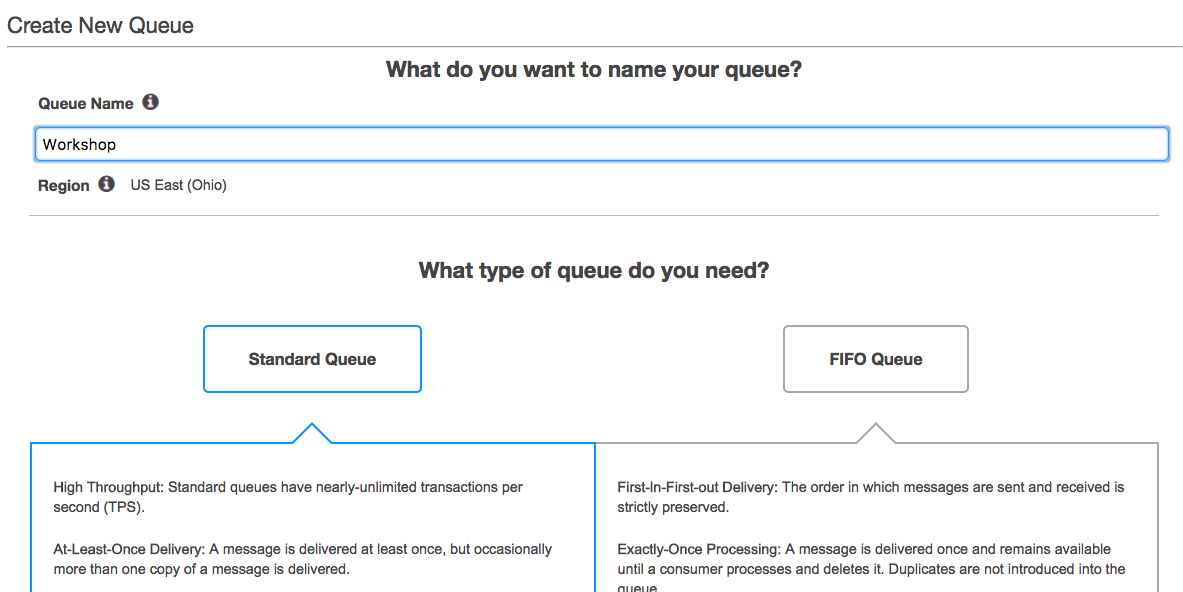
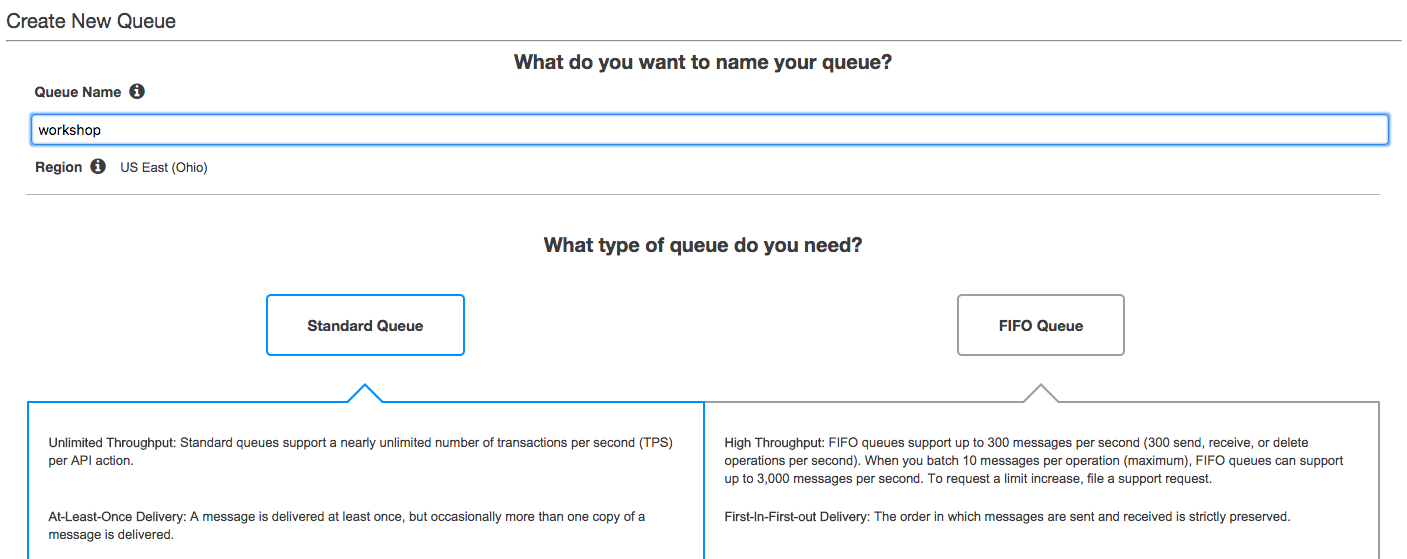
Updated Documentation for updated console

diff --git a/src/worker.py b/src/worker.py
@@ -39,6 +39,7 @@ import numpy as np
 import datetime , time
 from math import sqrt
 from scipy.stats import norm
+import fix_yahoo_finance as yf
 
 
 import argparse
@@ -95,7 +96,7 @@ trading_days = 252 # Number of trading days
 STOCK="AMZN"
 
 '''
-
+yf.pdr_override()
 stock_df = pdr.get_data_yahoo(STOCK,start=datetime.datetime(2006, 10, 1), end=datetime.datetime(2017, 10, 1))
 
 #calculate the compound annual growth rate (CAGR) which 

diff --git a/README.md b/README.md
@@ -95,8 +95,13 @@ The template sets up a VPC, IAM roles, S3 bucket, and an EC2 Instance. The EC2 i
 
 	Region | Launch Template
 	------------ | -------------  
+	**N. Virginia** (us-east-1) | [![Launch Monte Carlo Workshop into Ohio with CloudFormation](images/deploy-to-aws.png)](https://console.aws.amazon.com/cloudformation/home?region=us-east-1#/stacks/new?stackName=spot-montecarlo-stack&templateURL=https://s3-us-west-2.amazonaws.com/reinvent2017-cmp316/monte-carlo-workshop.yaml) 
 	**Ohio** (us-east-2) | [![Launch Monte Carlo Workshop into Ohio with CloudFormation](images/deploy-to-aws.png)](https://console.aws.amazon.com/cloudformation/home?region=us-east-2#/stacks/new?stackName=spot-montecarlo-stack&templateURL=https://s3-us-west-2.amazonaws.com/reinvent2017-cmp316/monte-carlo-workshop.yaml)  
 	**Oregon** (us-west-2) | [![Launch Monte Carlo Workshop into Oregon with CloudFormation](images/deploy-to-aws.png)](https://console.aws.amazon.com/cloudformation/home?region=us-west-2#/stacks/new?stackName=spot-montecarlo-stack&templateURL=https://s3-us-west-2.amazonaws.com/reinvent2017-cmp316/monte-carlo-workshop.yaml)
+	**Dublin** (eu-west-1) | [![Launch Monte Carlo Workshop into Ireland with CloudFormation](images/deploy-to-aws.png)](https://console.aws.amazon.com/cloudformation/home?region=eu-west-1#/stacks/new?stackName=spot-montecarlo-stack&templateURL=https://s3-us-west-2.amazonaws.com/reinvent2017-cmp316/monte-carlo-workshop.yaml)
+	**Tokyo** (ap-northeast-1) | [![Launch Monte Carlo Workshop into Tokyo with CloudFormation](images/deploy-to-aws.png)](https://console.aws.amazon.com/cloudformation/home?region=ap-northeast-1#/stacks/new?stackName=spot-montecarlo-stack&templateURL=https://s3-us-west-2.amazonaws.com/reinvent2017-cmp316/monte-carlo-workshop.yaml) 
+	**Seoul** (ap-northeast-2) | [![Launch Monte Carlo Workshop into Seoul with CloudFormation](images/deploy-to-aws.png)](https://console.aws.amazon.com/cloudformation/home?region=ap-northeast-2#/stacks/new?stackName=spot-montecarlo-stack&templateURL=https://s3-us-west-2.amazonaws.com/reinvent2017-cmp316/monte-carlo-workshop.yaml)
+	**Sydney** (ap-southeast-2) | [![Launch Monte Carlo Workshop into Sydney with CloudFormation](images/deploy-to-aws.png)](https://console.aws.amazon.com/cloudformation/home?region=ap-southeast-2#/stacks/new?stackName=spot-montecarlo-stack&templateURL=https://s3-us-west-2.amazonaws.com/reinvent2017-cmp316/monte-carlo-workshop.yaml)
 
 2. The template will automatically bring you to the CloudFormation Dashboard and start the stack creation process in the specified region. Click **Next** on the page it brings you to. Do not change anything on the first screen.
 
@@ -169,7 +174,7 @@ We will start by creating a managed message queue to store the batch job paramet
 >For regions that don't yet support FIFO queues, the console may look different than shown. Just name the queue and accept the defaults.
 
 
-3. Save the queue **Name** and **URL** for later use.
+3. Save the queue **ARN** and **URL** for later use.
 	
 	![SQS Info](images/sqs_info.png)
 	
@@ -184,12 +189,21 @@ Our EC2 instances run with an Instance Profile that contains an IAM role giving 
 
 	![IAM Role](images/iam_role.png)
 
-5. Under *Actions*, place a comma after the last action (e.g. `"logs:*"`).
-6. Add a new entry `"sqs:*"`which will give permission for all SQS actions. Click **Validate Policy**.
+5. Click on **Add additional permisions**. Click on **Choose a service** and select or type **SQS**.
 
-	![IAM Validate](images/iam_validate.png)
+	![IAM Role](images/iam_role_1.png)
 
-7. If the policy is valid, click **Save**.
+6. Click on **Select actions**. Under *Manual actions*, check the box beside **All SQS actions (sqs:\*)**. 
+
+	![IAM Role](images/iam_role_2.png)
+
+7. You will see a warning that you must choose a **queue resource type**. Click anywhere on the orange warning line. Under Resources, click on **Add ARN**.
+
+8. In the pop-up window, paste the *ARN* that you saved previously. Click **Add**.
+
+	![IAM Role](images/iam_role_3.png)
+	
+9. Click on **Review Policy** and then click **Save changes**.
 
 #### Configure the Web Client
 The CloudFormation template deployed a web server that will serve as the user interface. We need to configure it with our SQS queue
@@ -220,23 +234,24 @@ The CloudFormation template deployed a web server that will serve as the user in
 
 #### Create the Spot Worker Fleet
 1. From the EC2 Console, select **Spot Requests** and click **Request Spot Instances**.
-3. Select **Request and Maintain** to create a fleet of Spot Instances.
-4. For **Target Capacity**, type **2**
-5. Leave the Amazon Linux AMI as the Default.
-6. Each EC2 Instance type and family has it's own independent Spot Market price. Under **Instance Types**, Click **Select** and pick the *c3.xlarge*, *c3.2xlarge*, and *c4.xlarge* to diversify our fleet. Click **Select** again to return to the previous screen.
-7.  For **Allocation Strategy**, pick **Diversified**.
-8. For **Network**, pick the VPC we created for the Spot Monte Carlo Workshop.
-9. Under Availability Zone, check the box next to the first two AZs. The Network Subnet should auto-populate. If the subnet dropdown box says *"No subnets in this zone*, uncheck and select another AZ
-10.  Select **Use automated bidding**
+2. Select **Request and Maintain** to create a fleet of Spot Instances.
+3. For **Total target Capacity**, type **2**
+4. Leave the Amazon Linux AMI as the Default.
+5. Each EC2 Instance type and family has it's own independent Spot Market price. Under **Instance type(s)**, click **Select** and pick a few instance types (e.g. *c3.xlarge*, *c3.2xlarge*, and *c4.xlarge*) to diversify our fleet. Click **Select** again to return to the previous screen.
+6. For **Network**, pick the VPC we created for the Spot Monte Carlo Workshop.
+7. Under **Availability Zone**, check the box next to the first two AZs. The Network Subnet should auto-populate. If the subnet dropdown box says *"No subnets in this zone*, uncheck and select another AZ
+
 	![Spot Request](images/request_spot_configuration.png)
-11. Click **Next**
-12. We will use User Data to bootstrap our work nodes. Copy and paste the [spotlabworker.sh](https://github.com/aws-samples/ec2-spot-montecarlo-workshop/blob/master/templates/spotlabworker.sh) code from the repo We recommend using grabbing the latest code from the repo, but you can review the script below.
+
+8. For **Key pair name**, choose the SSH Key Pair that you specified in the CloudFormation template. 
+9. Under **Security groups** and  **IAM instance profile**, select the name with the prefix *spot-montecarlo workshop*.
+10. We will use User Data to bootstrap our work nodes. Copy and paste the [spotlabworker.sh](https://github.com/aws-samples/ec2-spot-montecarlo-workshop/blob/master/templates/spotlabworker.sh) code from the repo We recommend using grabbing the latest code from the repo, but you can review the script below.
 
 	<pre>
 	#!/bin/bash
 	# Install Dependencies
 	yum -y install git python-numpy python-matplotlib python-scipy
-	pip install pandas-datareader
+	pip install pandas-datareader fix_yahoo_finance
 	pip install scipy 
 	pip install boto3
 	
@@ -257,20 +272,20 @@ The CloudFormation template deployed a web server that will serve as the user in
 	echo 'Starting the worker processor'
 	python /home/ec2-user/spotlabworker/queue_processor.py --region $REGION> stdout.txt 2>&1
 	</pre>  
-12. Under **Tags**, Enter **Name** for *Key*. Enter **WorkerNode** for *Value*.
-13. Under **IAM instance profile**, pull the dropdown and select the profile beginning with the workshop name you configured in the CloudFormation Template.
-13. Select the Security Group named after your Workshop.
-14. We will accept the rest of the defaults, but take a moment at look at the options that you can configure for your Spot Fleet
+11. Under **Instance tags**, click on **Add new tag**. Enter **Name** for *Key*. Enter **WorkerNode** for *Value*.
+
+	![Spot Request](images/spot_config_2.png)
+
+12. We will accept the rest of the defaults, but take a moment at look at the options that you can configure for your Spot Fleet
 	* **Health Checks**
 	* **Interruption behavior**
-	* **Load Balancer registration**
+	* **Load Balancer Configuration**
 	* **EBS Optimized**
-
-	![Spot Request](images/spot_user_data.png)
+	* **Maximum Price**
 	
-15. Click **Review**, review your settings, and then click **Launch**.
-16. Wait until the request is fulfilled, capacity shows the specified number of Spot instances, and the status is Active.
-17. Once the workers come up, they should start processing the SQS messages automatically. Feel free to create some more jobs from the webpage.
+13. Click **Launch**.
+14. Wait until the request is fulfilled, capacity shows the specified number of Spot instances, and the status is Active.
+15. Once the workers come up, they should start processing the SQS messages automatically. Feel free to create some more jobs from the webpage.
 
 #### Optional: Auto-scale the Worker Fleet on EC2 Spot
 In the previous step, we specified two Spot instances, but what if we need to process more than two jobs at once? In this optional section we will configure auto-scaling so that new spot instances are created as more jobs get added to the queue.
